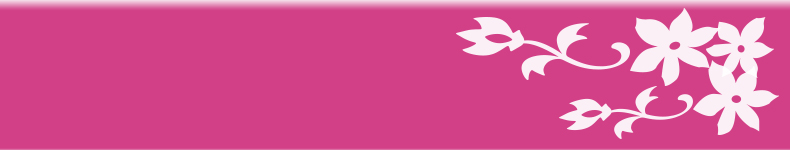
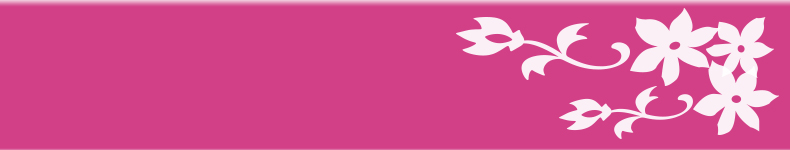
added padding and margin. added background image and added styling to contact section

Changed region(s): [[0.0, 0.0, 1.0, 0.0533]]

diff --git a/css/main.css b/css/main.css
@@ -12,6 +12,7 @@ body {
 	line-height: 1.5;
 	margin-left: auto;
 	margin-right: auto;	
+	padding: 10px;
 }
 
 #wrapper {
@@ -75,7 +76,7 @@ header h1 {
 	height: 150px;
 	padding: 0;
 	margin: 0 auto;
-	background: #d24087;
+	background-image: url("../images/pink_bg.jpg");
 	font: 48px "Great Vibes", cursive;
   	color: #fff; 
   	text-indent: 18px;
@@ -85,12 +86,13 @@ header h1 {
 h2 {
 	font: 28px "IM Fell French Canon SC", serif;
 	color: #61bfc7;
+	margin: 0 0 0 10px;
 	padding: 10px;
 }
 
 p {
 	font: 13px "Prata", serif;
-	padding: 10px;
+	margin-left: 10px
 }
 
 /*-----------Image Gallery--------*/
@@ -120,6 +122,10 @@ p {
 
 
 /*----------Contact Section---------*/
+
+#contact aside {
+	padding: 10px;
+}
 #contact a:link {
 	color: #d24087;
 }
@@ -136,3 +142,5 @@ p {
 	color: #fff750;
 
 /*-----------End of Contact Section--------*/
+
+
